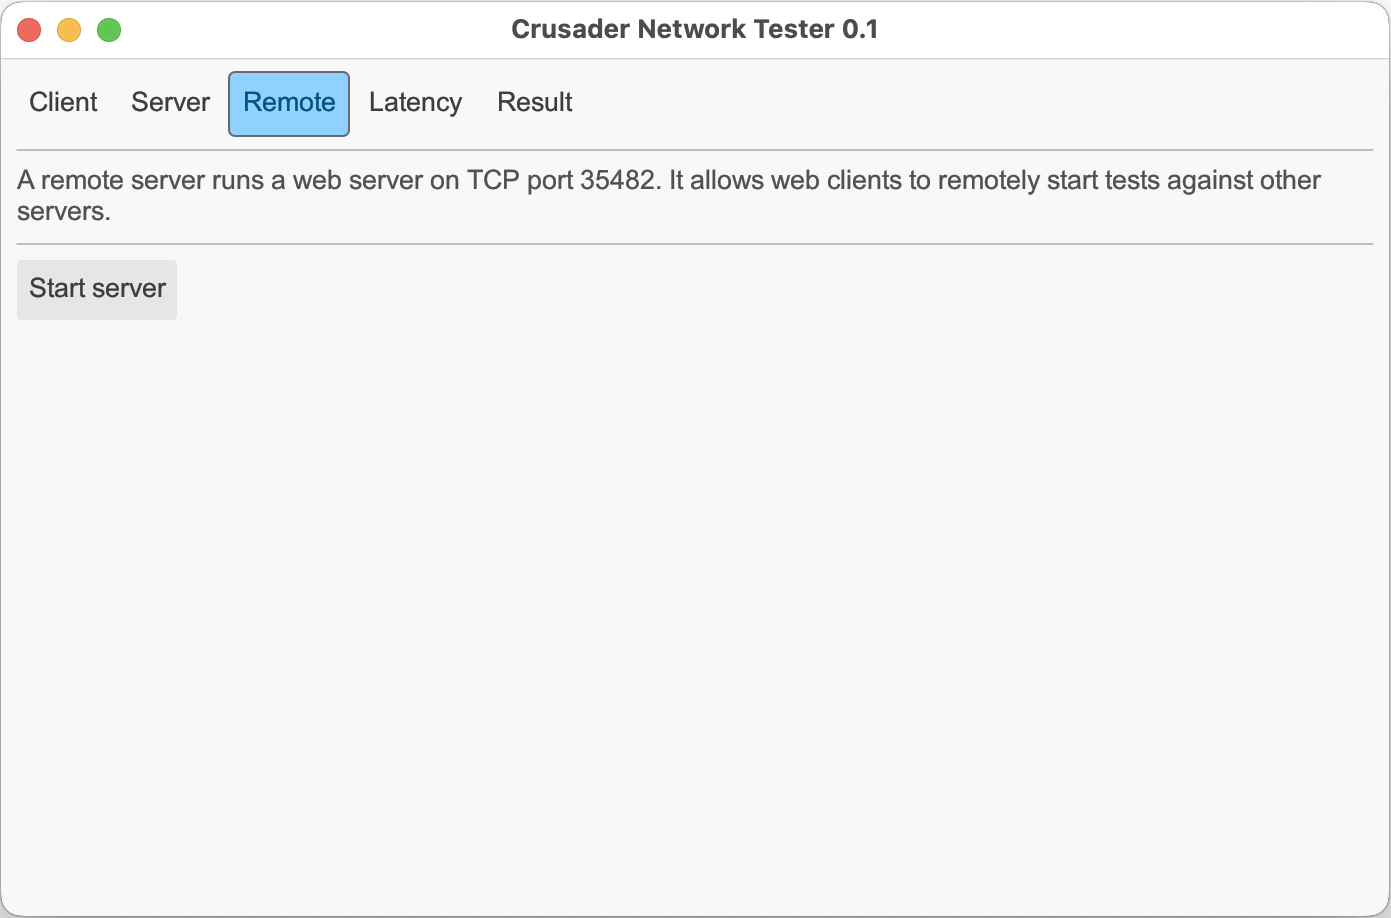
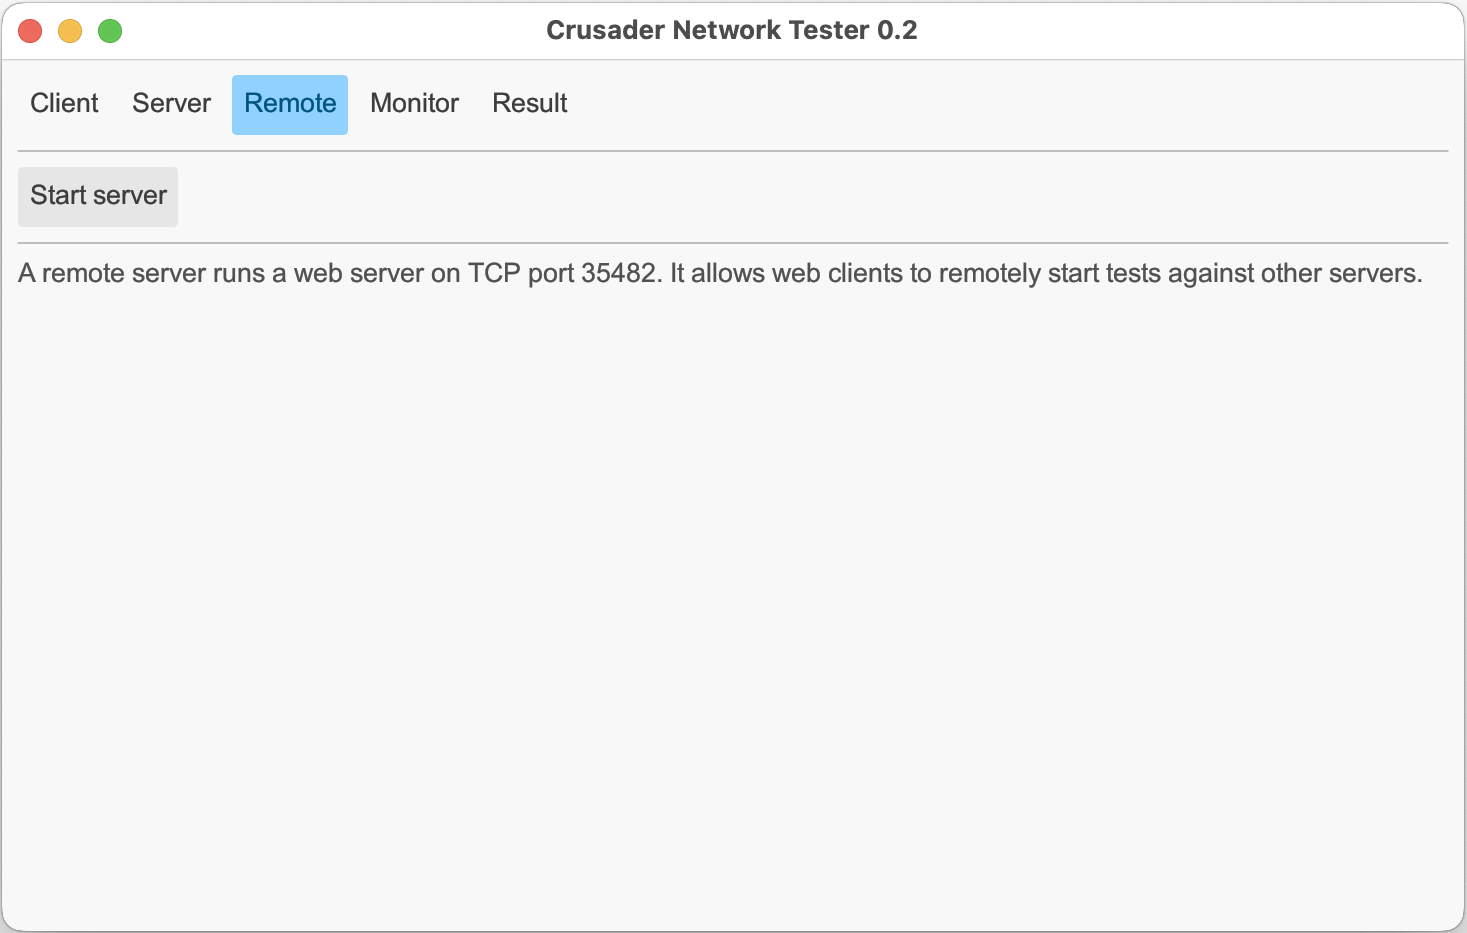
Update for 0.2 screen shots; Editorial tweaks on README

Changed region(s): [[0.0, 0.0, 1.0, 0.976], [0.371, 0.0, 0.6492, 0.061], [0.0, 0.0, 0.0927, 0.061]]

diff --git a/README.md b/README.md
@@ -65,34 +65,34 @@ The Crusader GUI has five tabs:
   A browser that connects to that port can initiate
   a test to a Crusader server.
   
-* **Latency tab**
-  Continually tests the latency to the selected
+* **Monitor tab**
+  Continually displays the latency to the selected
   Crusader server until stopped.
 
 * **Result tab**
   Displays the result of the most recent client run
 
-## Understanding the Result Tab
+## The Result Tab
 
 ![Crusader Results Screenshot](./media/Crusader-Results.png)
 
 A Crusader test creates three bursts of traffic.
-By default, it generates five seconds each of
+By default, it generates ten seconds each of
 download only, upload only, then bi-directional traffic.
 Each burst is separated by several seconds of idle time.
 
 The Crusader Result tab displays the results of the test with
 three plots (see image above):
 
-* The **Throughput** plot shows the bursts of traffic:
-green is download (from server to client),
+* The **Throughput** plot shows the bursts of traffic.
+Green is download (from server to client),
 blue is upload, and
 the purple line is the instantaneous
 sum of the download plus upload.
 
 * The **Latency** plot shows the corresponding latency.
+Green shows the  (uni-directional) time from the server to the client.
 Blue is the (uni-directional) time from the client to the server.
-Green shows the time from the server to the client (one direction).
 Black shows the sum from the client to the server
 and back (round-trip time).
 

diff --git a/media/Crusader Screen Shots.md b/media/Crusader Screen Shots.md
@@ -1,0 +1,17 @@
+# Crusader Screen Shots
+This is a test page for the screen shots
+
+## Client
+![Options](./Crusader-Client.png)
+
+## Server
+![Options](./Crusader-Server.png)
+
+## Remote
+![Options](./Crusader-Remote.png)
+
+## Monitor
+![Options](./Crusader-Monitor.png)
+
+## Result
+![Options](./Crusader-Result.png)
